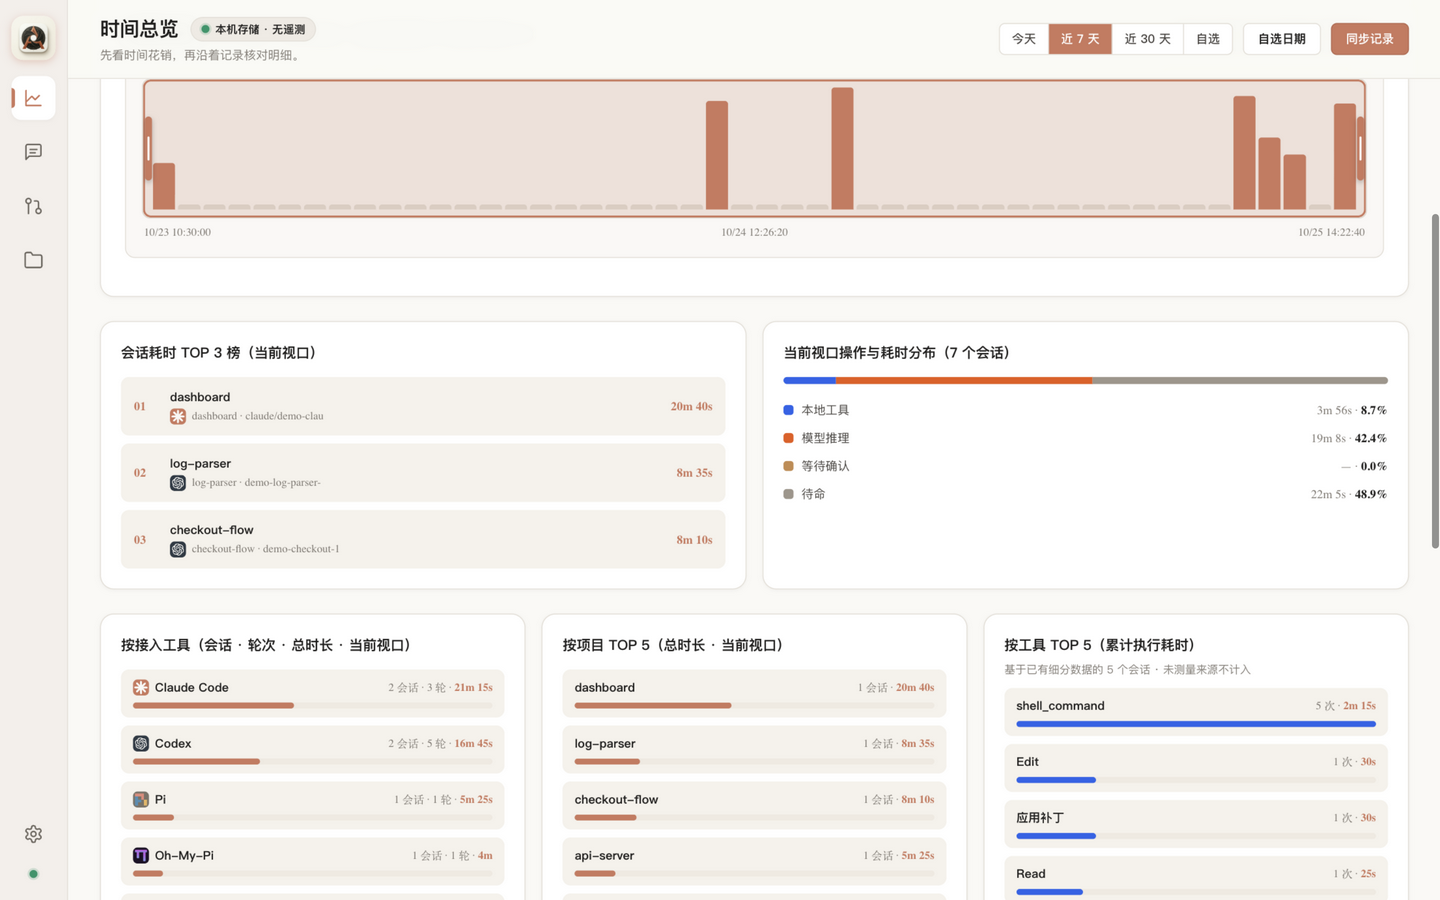
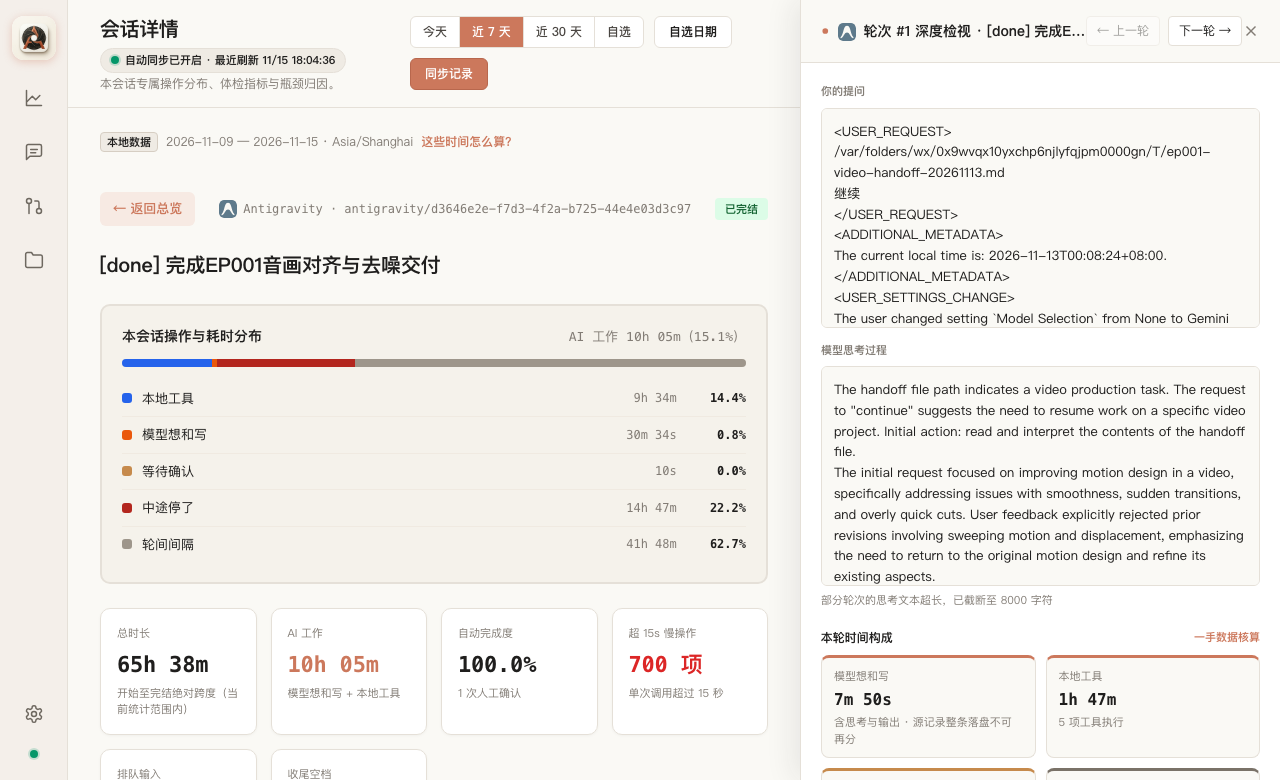
docs: README 与文档同步守恒口径——五态模型、分档阈值、词面与截图重摄
- README 三态耗时模型 → 守恒耗时模型：四态表 + 恒等式 + 分档阈值说明
- 配套下钻更新为六 KPI/趋势单指标/每会话时间轴；适配器表格逐行补停摆口径
- README.en 同步 conservation model；directories 文档适配器清单与口径更新
- GLOSSARY 纯工作条目补守恒恒等式；五张 README 截图重摄（新 UI 实拍）

diff --git a/README.md b/README.md
@@ -25,7 +25,7 @@ https://github.com/user-attachments/assets/08308453-caa0-4b1c-bb41-96cbcdec0dd6
 
 ---
 
-AgentTime 是一个**本地优先**的 Agent 时间账本：把 Codex、Claude Code、Pi、Oh-My-Pi、DeepSeek Harness、Antigravity、OpenCode 等编码 Agent 的会话记录导入本机，切分出**纯工作、等待人审阅、待命**三态耗时，并把总账一路下钻到单个会话、单轮交互、单次工具调用。
+AgentTime 是一个**本地优先**的 Agent 时间账本：把 Codex、Claude Code、Pi、Oh-My-Pi、DeepSeek Harness、Antigravity、OpenCode 等编码 Agent 的会话记录导入本机，按**守恒口径**切分出**纯工作、等待人审阅、中途停了、待命**四段耗时——每段都能从一手事件追溯，加总恒等于轮次墙钟——并把总账一路下钻到单个会话、单轮交互、单次工具调用的输入与输出。
 
 你的 Agent 每天到底替你干了多少活、多少时间在等你点头、多少时间在空转？打开页面就能看到。
 
@@ -34,22 +34,27 @@ AgentTime 是一个**本地优先**的 Agent 时间账本：把 Codex、Claude C
 ## 为什么需要它
 
 - 我一天的 Agent 里，**真正干活的时间**有多少？
-- 一场会话里，多少花在模型推理、多少在执行命令、多少在等我确认？
+- 一场会话里，多少花在模型想和写、多少在执行命令、多少在等我确认、多少是中途停了？
 - 哪些会话最耗时？不同 Agent、不同模型的耗时分布差别有多大？
 
 常见的时间统计把「开始到结束」整段记成工作时长——**人在阅读、思考、等待审批的时间全被算成了 AI 在干活**。AgentTime 用事件流里的一手证据把这段账拆开。
 
-## 三态耗时模型
+## 守恒耗时模型
 
 | 态 | 含义 | 计量依据 |
 | --- | --- | --- |
-| **纯工作** `work_ms` | 模型推理 + 本地工具执行 | 事件流一手机时（响应跨度、工具配对跨度）累加 |
+| **纯工作** `work_ms` | 模型想和写 + 本地工具执行 | 事件流一手机时（响应跨度、工具配对跨度）累加 |
 | **等待人审阅** `review_wait_ms` | 人工审批/确认卡点 | 仅当来源落盘了审批事件才计入；否则如实标「未知」，不编造 |
-| **待命** `standby_ms` | 上一轮答完到下一轮提交的间隔 | 轮次边界相减，含用户阅读与思考时间 |
+| **中途停了** `idle_gap_ms` | 轮内无任何源事件的空白（网络阻塞、设备休眠、忙上一条等） | 轮内 ≥ 阈值无事件区间并集，扣除工具与审阅；源记录不写原因，只给时长不编造归因 |
+| **待命（轮间间隔）** `standby_ms` | 上一轮答完到下一轮提交的间隔 | 轮次边界相减，是你的时间，AI 零消耗 |
 
-界面按展示层短词呈现这三态——**AI 工作 / 等待确认 / 待命**；每个数字背后的术语与字段名，可在页内「这些时间怎么算？」弹窗查到完整三层映射。
+守恒恒等式：**纯工作 + 等待人审阅 + 中途停了 = 轮次墙钟**（发出 → 答复完毕），一分不多、一分不少。停摆阈值按适配器分档：Antigravity/Pi/Oh-My-Pi/DeepSeek Harness/OpenCode ≥2 分钟；Claude Code/Codex ≥30 分钟（交互式轮次的分钟级缝隙几乎都是真实生成，长挂起才判停摆）。
 
-配套下钻：轮次四 KPI（总时长 / AI 工作 / 自动完成度 / 超 15s 慢操作）、单轮耗时构成总账、慢操作 TOP 榜、按模型与思考级别的分项、逐轮 Token 用量。总览页另配跨日三态趋势（按日/按周切换）、本时段结论卡与 Markdown 报告导出——全部本地生成、零上传。**缺失证据一律如实标注，绝不推算充数**——这是 AgentTime 的第一设计原则。
+排队输入（上一轮未答复完毕时发出下一条，消息排队等待）单独记录为 `queue_wait_ms`；最后一条答复完毕后的「收尾空档」由前端按当前时刻实时计算——两者都不混入任何其他维度。
+
+界面按展示层短词呈现这四态——**AI 工作 / 等待确认 / 中途停了 / 轮间间隔**；每个数字背后的术语与字段名，可在页内「这些时间怎么算？」弹窗查到完整三层映射。
+
+配套下钻：轮次六 KPI（总时长 / AI 工作 / 自动完成度 / 超 15s 慢操作 / 排队输入 / 收尾空档）、单轮耗时构成总账（含每段守恒分解与工具逐次调用的输入/输出/起止）、慢操作 TOP 榜、按模型与思考级别的分项、逐轮 Token 用量。总览页另配「每天 AI 干活多久」趋势（按日/按周切换，长范围自动按周聚合）、「每个会话干了多久」时间轴、本时段结论卡与 Markdown 报告导出——全部本地生成、零上传。**缺失证据一律如实标注，绝不推算充数**——这是 AgentTime 的第一设计原则。
 
 ## 快速开始
 
@@ -70,15 +75,15 @@ agent-time        # 或无连字符别名 agenttime
 
 全部只读导入，格式随上游演进持续适配（设计决策见 [docs/adr](docs/adr/)）：
 
-| Harness | 三态耗时 | Token 下钻 | Turn Inspector 抽屉 | 备注 |
+| Harness | 耗时口径 | Token 下钻 | Turn Inspector 抽屉 | 备注 |
 | --- | --- | --- | --- | --- |
-| Codex | ✔ 完成锚点校准 | ✔ 累计快照差分 | ✔ | 思考链官方加密（ZDR），如实标注 |
-| Claude Code | ✔ 消息记录跨度 | — | ✔ | 主会话流 |
-| Pi | ✔ 一手机时累加 | — | ✔ | 分支拓扑只取活跃路径 |
-| DeepSeek Harness | ✔ | ✔ 逐请求 | ✔ | 多帧 zstd 事件流 |
-| Antigravity | ✔ `ask_question` 计入审阅 | — | ✔ | 后台任务按完成回执计入 |
-| OpenCode | ✔ | ✔ 逐请求 | ✔ | SQLite 会话库，一库多会话 |
-| Oh-My-Pi | ✔ history.db 锚点回退 | ✔ 逐请求 | ✔ | 旧版文件秒级轮次锚点，如实披露 |
+| Codex | ✔ 完成锚点校准 · 长挂起停摆 ≥30 分钟 | ✔ 累计快照差分 | ✔ | 思考链官方加密（ZDR），如实标注 |
+| Claude Code | ✔ 消息记录跨度 · 长挂起停摆 ≥30 分钟 | — | ✔ | 主会话流 |
+| Pi | ✔ 一手机时累加 · 停摆 ≥2 分钟 | — | ✔ | 分支拓扑只取活跃路径 |
+| DeepSeek Harness | ✔ · 停摆 ≥2 分钟 | ✔ 逐请求 | ✔ | 多帧 zstd 事件流 |
+| Antigravity | ✔ 守恒五态 · 停摆 ≥2 分钟 · `ask_question` 计入审阅 | ✔ 逐请求输入/输出 | ✔ | 后台任务按完成回执计入；工具逐次含输入/输出与起止 |
+| OpenCode | ✔ · 停摆 ≥2 分钟 | ✔ 逐请求 | ✔ | SQLite 会话库，一库多会话 |
+| Oh-My-Pi | ✔ history.db 锚点回退 · 停摆 ≥2 分钟 | ✔ 逐请求 | ✔ | 旧版文件秒级轮次锚点，如实披露 |
 
 接入能力随上游格式演进持续更新；每个 harness 的轮次边界、完成锚点与降级口径都以 ADR 形式落在 [docs/adr](docs/adr/)。
 
@@ -91,7 +96,7 @@ agent-time        # 或无连字符别名 agenttime
 
 ## 它长什么样
 
-**会话详情**：三态占比、四个 KPI、慢操作 TOP 榜与耗时归因。
+**会话详情**：五维分布（可点击下钻）、六个 KPI、慢操作 TOP 榜与耗时归因。
 
 ![会话详情](docs/assets/session-detail.png)
 

diff --git a/README.en.md b/README.en.md
@@ -39,17 +39,22 @@ How much did your agents actually work today — and how much went into waiting 
 
 Typical time tracking counts the whole "start to finish" span as work — **your reading, thinking, and approval time all get billed as AI effort**. AgentTime splits that bill using first-hand evidence from the session event streams.
 
-## The three-state timing model
+## The conservation timing model
 
 | State | Meaning | Measured from |
 | --- | --- | --- |
-| **Pure work** `work_ms` | Model inference + local tool execution | First-hand machine time accumulated from response spans and paired tool spans |
+| **Pure work** `work_ms` | Model thinking-and-writing + local tool execution | First-hand machine time accumulated from response spans and paired tool spans |
 | **Review wait** `review_wait_ms` | Human approval / confirmation blocks | Only counted when the source records approval events; otherwise honestly reported as unknown — never invented |
-| **Standby** `standby_ms` | Reply-finished → next submission interval | Turn boundary arithmetic; includes your reading and thinking time |
+| **Idle gap** `idle_gap_ms` | In-turn stretches with no source events at all (network blocking, device sleep, busy with the previous message) | Union of in-turn event-free intervals ≥ threshold, minus tool and review spans; sources never state the cause, so only duration is reported |
+| **Standby (turn gap)** `standby_ms` | Reply-finished → next submission interval | Turn boundary arithmetic; your time, zero AI consumption |
 
-The web UI renders these states as plain-language labels — **AI 工作 / 等待确认 / 待命** — and the in-app "How is this time measured?" dialog maps every label back to the glossary term and field name.
+Conservation identity: **pure work + review wait + idle gap = turn wall clock** (submission → final reply), to the millisecond. Idle thresholds are per-adapter: Antigravity/Pi/Oh-My-Pi/DeepSeek Harness/OpenCode ≥2 minutes; Claude Code/Codex ≥30 minutes (minute-level gaps in interactive turns are genuine generation).
 
-Accompanying drill-downs: four turn KPIs (total time / AI work / auto-completion / 15s+ slow ops), per-turn rollup, slowest-operations ranking, per-model and per-thinking-level breakdowns, and per-turn token usage. The overview also gets a day/week three-state trend chart, takeaway cards, and Markdown report export — all generated locally, zero upload. **Missing evidence is always labeled as such — never extrapolated.** That is AgentTime's first design principle.
+Queued submissions (sent while the previous turn was still running) are recorded separately as `queue_wait_ms`; the tail gap after the final reply is computed live by the frontend — neither is folded into any other dimension.
+
+The web UI renders these states as plain-language labels — **AI 工作 / 等待确认 / 中途停了 / 轮间间隔** — and the in-app "How is this time measured?" dialog maps every label back to the glossary term and field name.
+
+Accompanying drill-downs: six turn KPIs (total time / AI work / auto-completion / 15s+ slow ops / queued submissions / tail gap), per-turn rollup with per-segment conservation breakdown, slowest-operations ranking, per-tool call details with input/output and start/end times, per-model and per-thinking-level breakdowns, and per-turn token usage. The overview also gets a "daily AI work" trend chart (day/week toggle, auto-weekly for long ranges), a per-session work timeline, takeaway cards, and Markdown report export — all generated locally, zero upload. **Missing evidence is always labeled as such — never extrapolated.** That is AgentTime's first design principle.
 
 ## Quick start
 
@@ -89,7 +94,7 @@ All imports are read-only; formats keep adapting as upstreams evolve (design dec
 
 ## Screenshots
 
-**Session detail**: three-state split, four KPIs, slowest operations, and attribution.
+**Session detail**: five-dimension split (click any row to drill down), six KPIs, slowest operations, and attribution.
 
 ![Session detail](docs/assets/session-detail.png)
 

diff --git a/docs/directories.zh-CN.md b/docs/directories.zh-CN.md
@@ -58,4 +58,4 @@
 
 cc-switch 的 `agy_config.rs` 面向 Antigravity CLI，不能证明 Antigravity IDE 的会话目录或格式；Antigravity 默认位置最终以 2026-10 本机真实语料实测为准（`brain/<会话 ID>/.system_generated/logs/transcript.jsonl`），上游无公开规范，故 evidence 保持留空。
 
-目前 Codex、Claude Code、Pi、DeepSeek Harness 和 OpenCode 具备导入能力；Codex 与 OpenCode 提供三态耗时切分（口径不同，界面分别披露），Claude 使用消息记录跨度口径，Pi 与 DeepSeek Harness 按机时跨度累加。其他工具的路径规则核实不等于已实现适配器，也不代表已经读取过用户本机的真实数据。已有自定义路径不会因为默认规则修正而被静默覆盖。
+目前全部七个适配器（Codex、Claude Code、Pi、Oh-My-Pi、DeepSeek Harness、Antigravity、OpenCode）具备导入能力；Antigravity 提供守恒五态切分（含 ≥2 分钟停摆拆分），Codex 与 Claude Code 提供三态切分并拆分 ≥30 分钟长挂起，OpenCode 提供三态切分与停摆，Pi 与 DeepSeek Harness 按机时跨度累加并拆分停摆（口径不同，界面分别披露）。其他工具的路径规则核实不等于已实现适配器，也不代表已经读取过用户本机的真实数据。已有自定义路径不会因为默认规则修正而被静默覆盖。

diff --git a/GLOSSARY.md b/GLOSSARY.md
@@ -10,6 +10,7 @@ _Avoid_: 人工等待, 用户等待, 确认等待
 
 **纯工作耗时 (Active Work Duration)**:
 Agent 处于活跃工作状态的物理执行时间，由模型 API 生成推理耗时与本地工具实际运行耗时相加构成。
+守恒恒等式：纯工作 + 等待人审阅 + 停摆间隔 = 轮次墙钟（Antigravity 守恒口径）；纯工作不含停摆间隔。
 _Avoid_: 墙钟耗时, 任务总跨度
 
 **自动化自治率 (Autonomy Rate)**:
